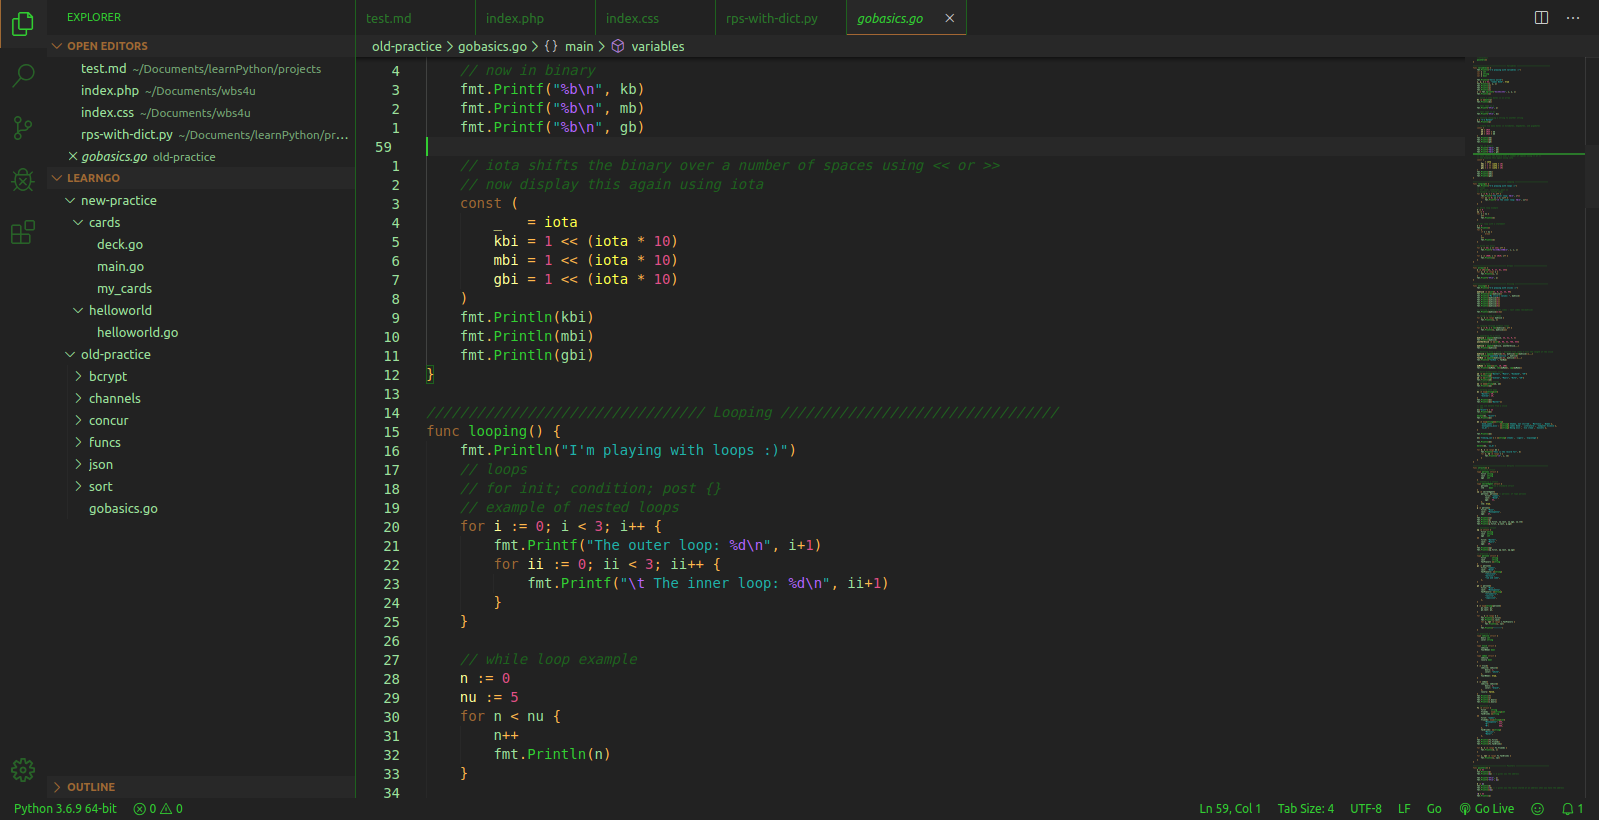
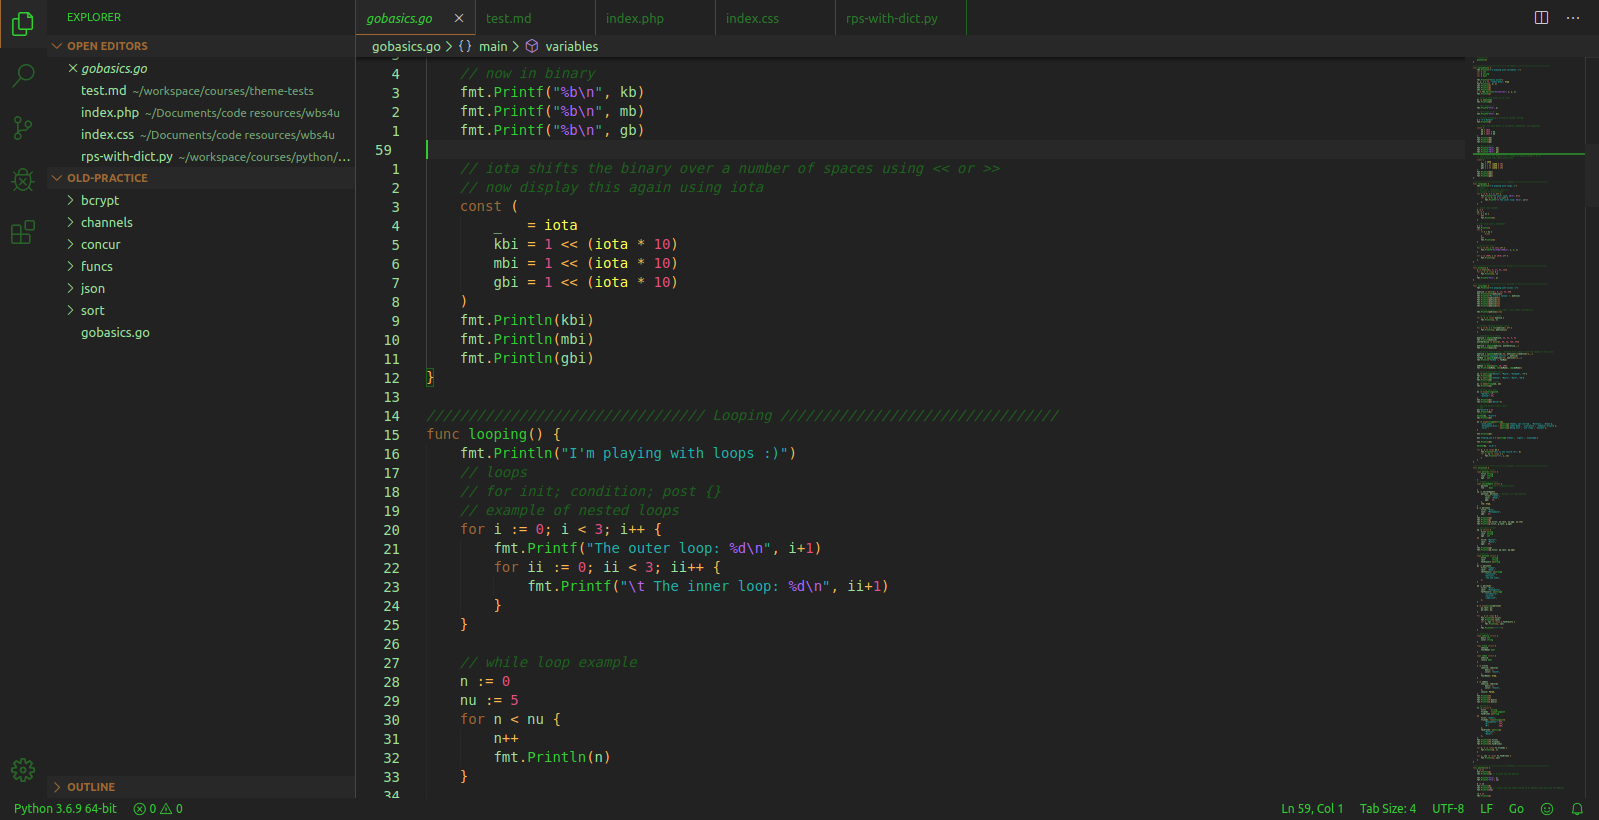
Add files via upload

diff --git a/CHANGELOG.md b/CHANGELOG.md
@@ -15,3 +15,10 @@
 * Made lists in markdown green instead of yellow
 * Made table separators yellow instead of green
 * Added color to string literals in JS
+
+### Jan 09 2020
+* Removed the color tan
+  * Many said it looked too yellowish on their screens (my screen looked tan, but I saw what they saw)
+  * Also Python variables wouldn't use the color on variables
+  * Go would only use it when you initualize the variable
+  * I tried to find another tan to replace it but they either didn't look tan or they conflicted with the brown or orange so I thought it'd be best to just remove it all together
